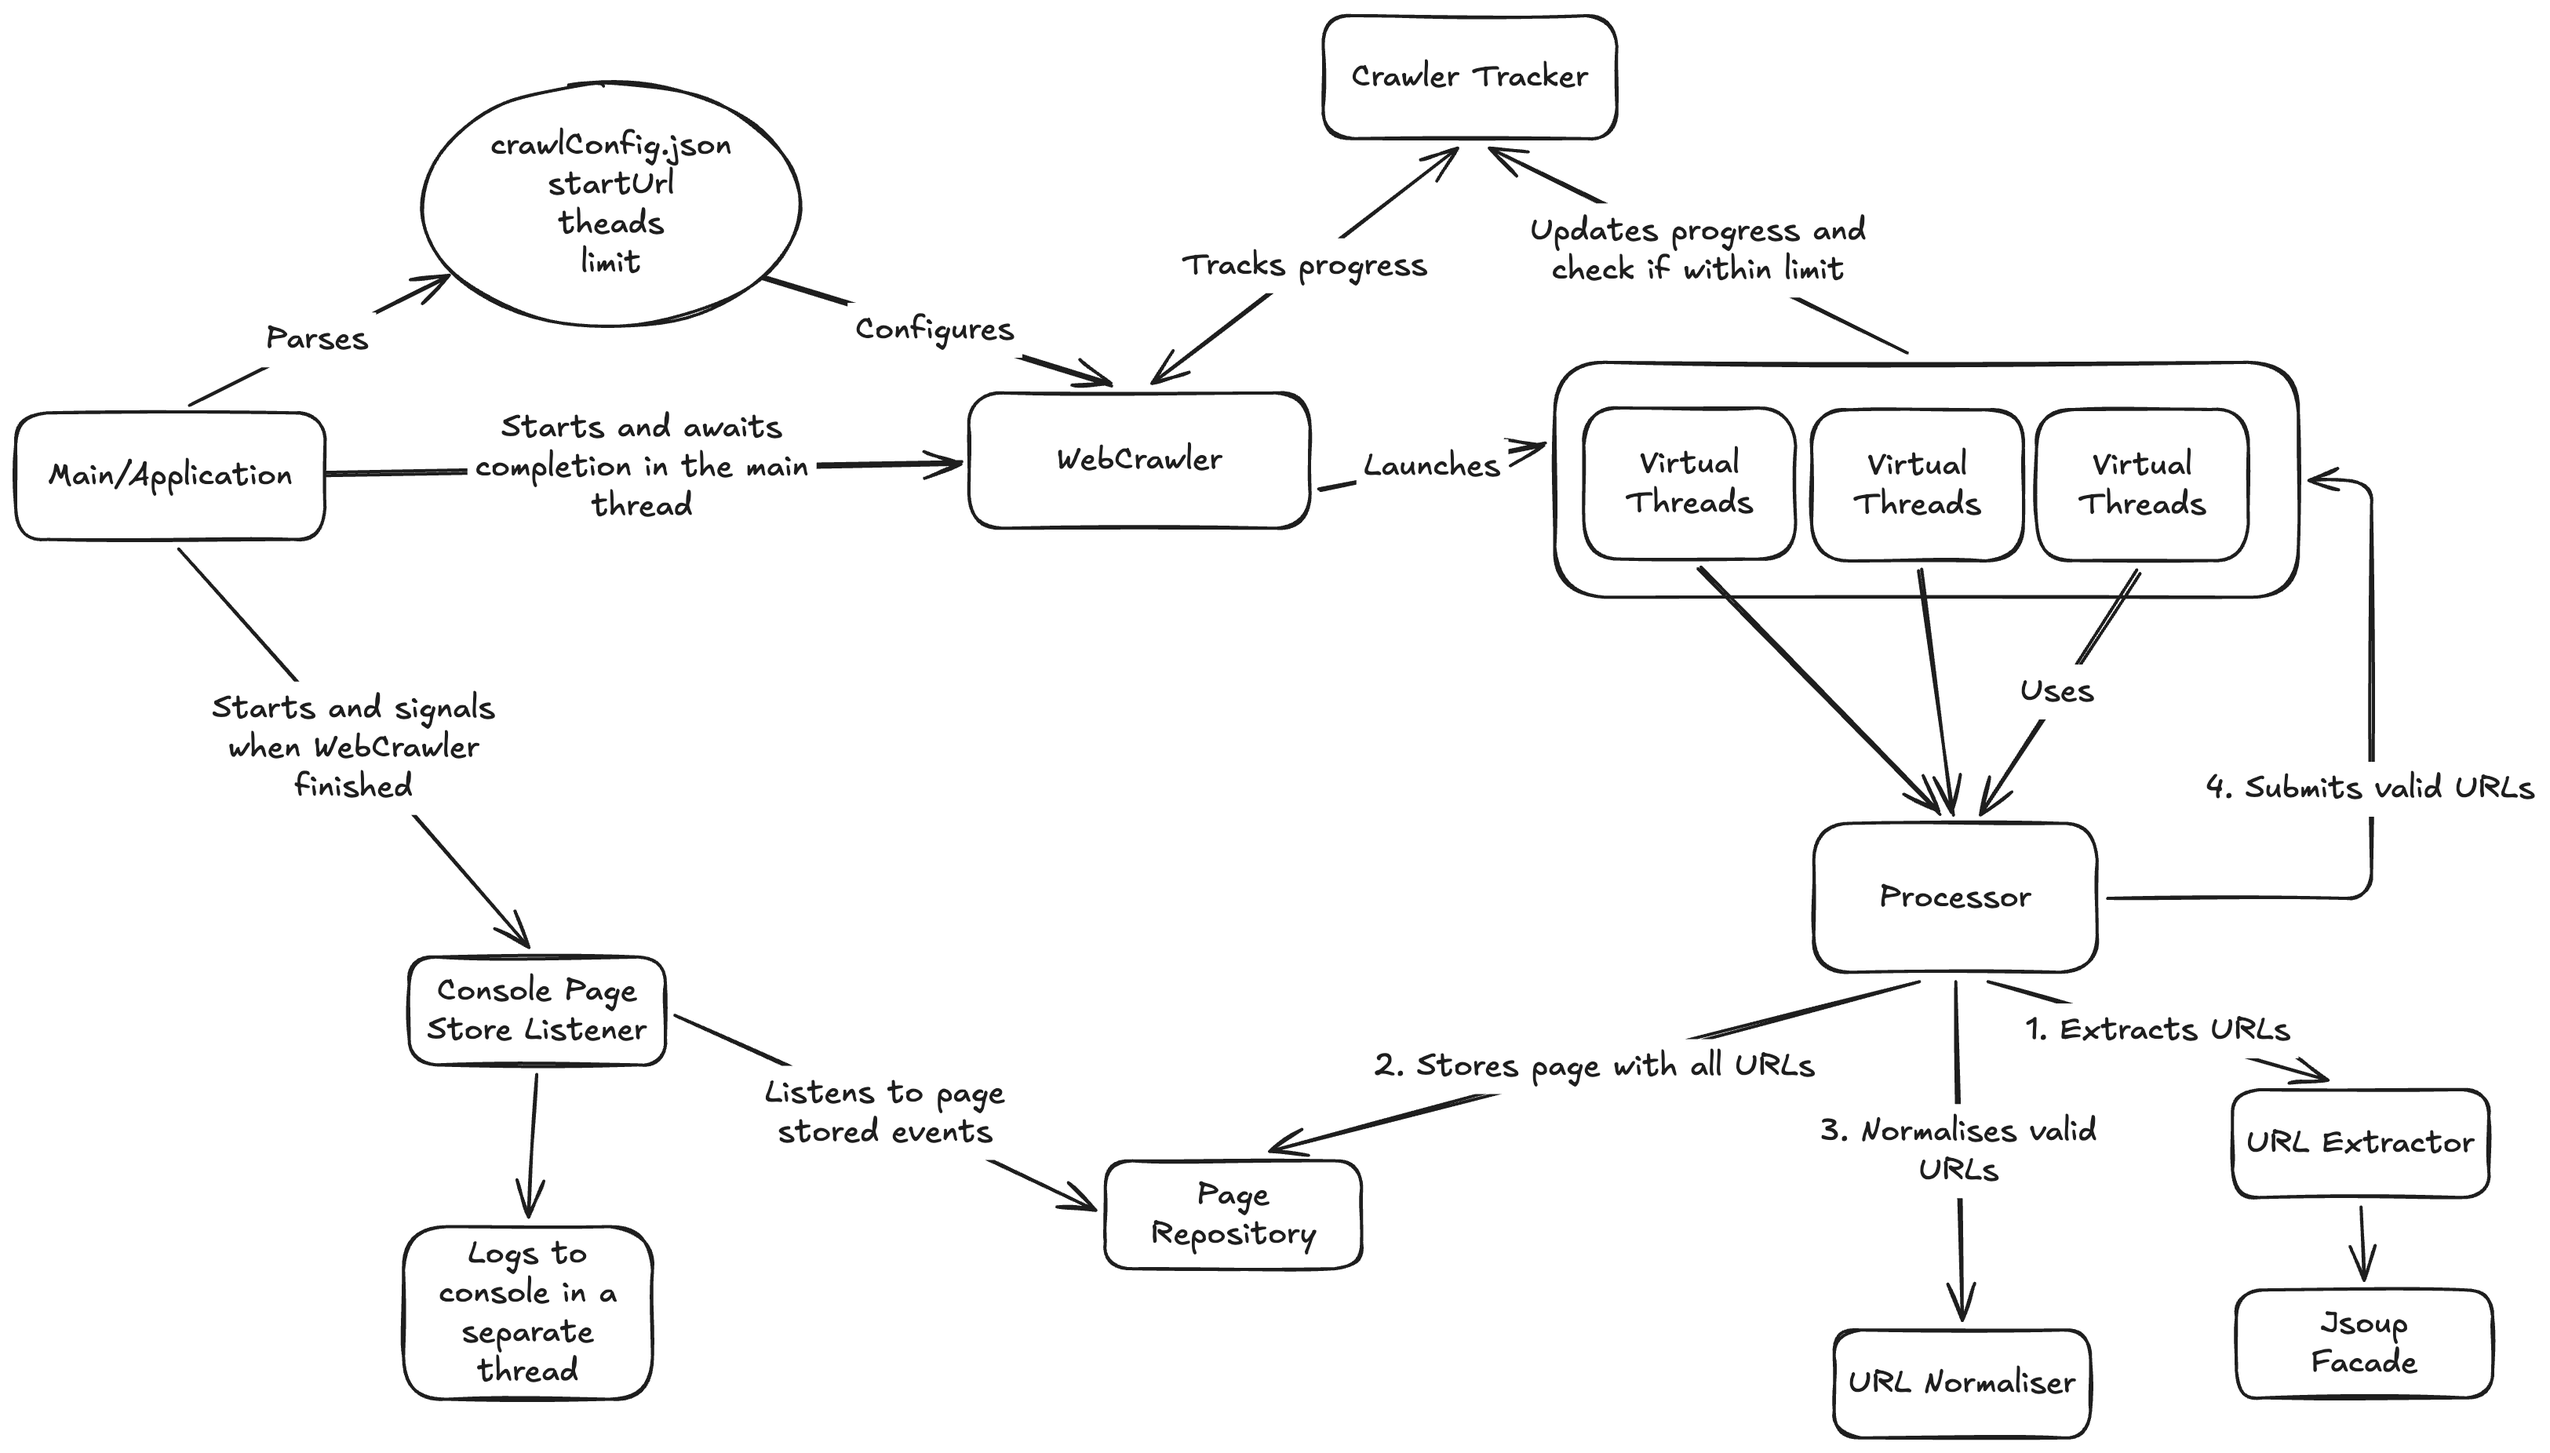
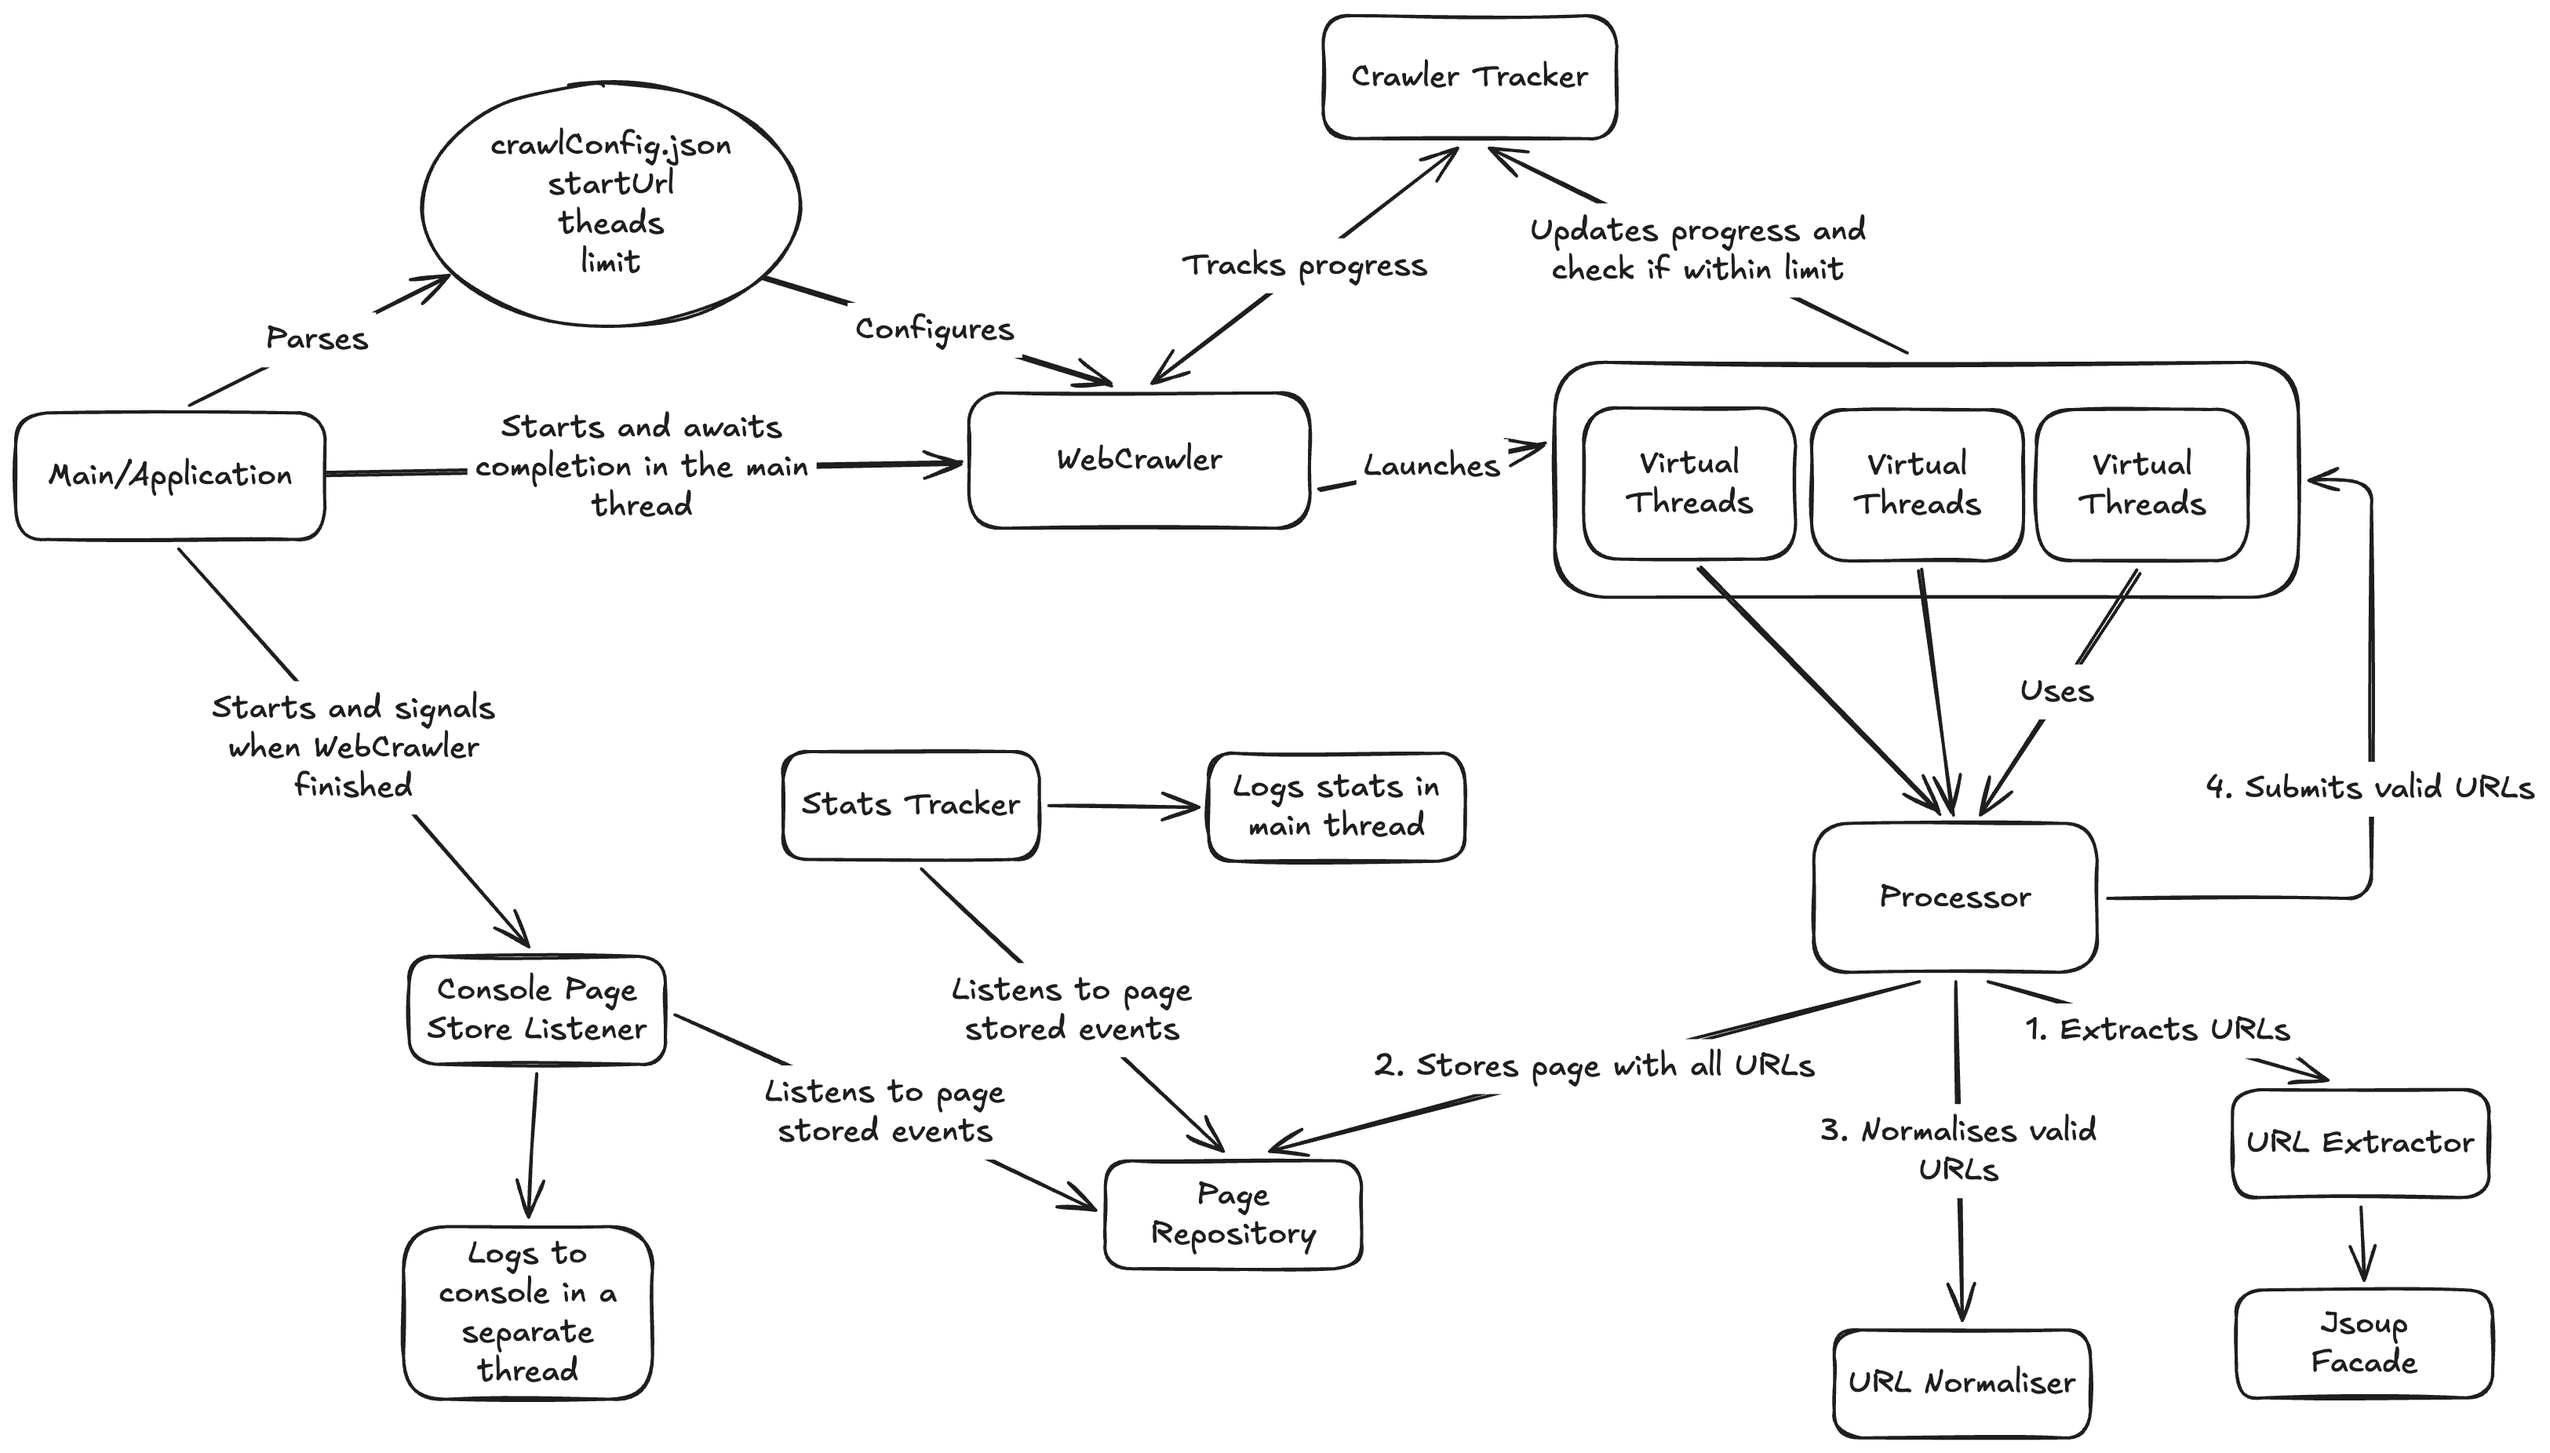
more clean up

diff --git a/src/test/java/com/monzo/webcrawler/infrastructure/listener/ConsoleOutputPageStoredListenerTest.java b/src/test/java/com/monzo/webcrawler/infrastructure/listener/ConsoleOutputPageStoredListenerTest.java
@@ -1,7 +1,7 @@
 package com.monzo.webcrawler.infrastructure.listener;
 
 import com.monzo.webcrawler.domain.model.Page;
-import com.monzo.webcrawler.domain.url.UrlNormalisationResult;
+import com.monzo.webcrawler.domain.url.UrlNormalisationResult.InvalidUrl;
 import com.monzo.webcrawler.util.InMemoryAppender;
 import org.apache.logging.log4j.Level;
 import org.apache.logging.log4j.LogManager;
@@ -14,7 +14,7 @@ import org.junit.jupiter.api.Test;
 import java.time.Duration;
 import java.util.List;
 
-import static com.monzo.webcrawler.domain.url.UrlNormalisationResult.*;
+import static com.monzo.webcrawler.domain.url.UrlNormalisationResult.NormalisedUrl;
 import static org.assertj.core.api.Assertions.assertThat;
 import static org.awaitility.Awaitility.await;
 
@@ -55,8 +55,10 @@ class ConsoleOutputPageStoredListenerTest {
                 .sameDomainUrls(List.of(
                         new NormalisedUrl("http://something.com/products", DOMAIN),
                         new NormalisedUrl("http://something.com/about", DOMAIN)))
-                .otherDomainUrls(List.of())
-                .invalidUrls(List.of())
+                .otherDomainUrls(List.of(
+                        new NormalisedUrl("http://other.com", "other.com")
+                ))
+                .invalidUrls(List.of(new InvalidUrl("foo:bar")))
                 .build();
         Page anotherPage = Page.builder()
                 .id("another-page-id")
@@ -72,11 +74,13 @@ class ConsoleOutputPageStoredListenerTest {
         underTest.completePublishing();
 
         // then
-        await().atMost(Duration.ofSeconds(5)).until(() -> inMemoryAppender.size() == 6);
+        await().atMost(Duration.ofSeconds(5)).until(() -> inMemoryAppender.size() == 8);
         assertThat(inMemoryAppender.eventMessages()).containsExactlyElementsOf(List.of(
-                "Discovered 2 URLs for: http://something.com",
+                "Discovered 4 URLs for: http://something.com",
                 "1. http://something.com/products",
                 "2. http://something.com/about",
+                "3. http://other.com",
+                "4. foo:bar",
                 "Discovered 1 URLs for: http://something.com/products",
                 "1. http://something.com/products/1",
                 "Poison pill, stopping console thead..."

diff --git a/src/test/java/com/monzo/webcrawler/infrastructure/repository/InMemoryPageRepositoryTest.java b/src/test/java/com/monzo/webcrawler/infrastructure/repository/InMemoryPageRepositoryTest.java
@@ -2,7 +2,6 @@ package com.monzo.webcrawler.infrastructure.repository;
 
 import com.monzo.webcrawler.domain.listener.PageStoredListener;
 import com.monzo.webcrawler.domain.model.Page;
-import com.monzo.webcrawler.domain.url.UrlNormalisationResult;
 import org.junit.jupiter.api.BeforeEach;
 import org.junit.jupiter.api.Test;
 import org.junit.jupiter.api.extension.ExtendWith;
@@ -12,7 +11,7 @@ import org.mockito.junit.jupiter.MockitoExtension;
 import java.util.List;
 import java.util.Optional;
 
-import static com.monzo.webcrawler.domain.url.UrlNormalisationResult.*;
+import static com.monzo.webcrawler.domain.url.UrlNormalisationResult.NormalisedUrl;
 import static org.assertj.core.api.Assertions.assertThat;
 import static org.mockito.Mockito.times;
 import static org.mockito.Mockito.verify;

diff --git a/src/test/java/com/monzo/webcrawler/application/CrawlTrackerTest.java b/src/test/java/com/monzo/webcrawler/application/CrawlTrackerTest.java
@@ -25,10 +25,12 @@ class CrawlTrackerTest {
 
     @Test
     void rejectsOverLimit() {
+        // given
         NormalisedUrl firstUrl = new NormalisedUrl("https://something.com/page/1", "something.com");
         NormalisedUrl secondUrl = new NormalisedUrl("https://something.com/page/2", "something.com");
         NormalisedUrl thirdUrl = new NormalisedUrl("https://something.com/page/3", "something.com");
 
+        // expect
         assertThat(underTest.submit(firstUrl)).isTrue();
         assertThat(underTest.submit(secondUrl)).isTrue();
         assertThat(underTest.submit(thirdUrl)).isFalse();

diff --git a/src/main/java/com/monzo/webcrawler/application/WebCrawlerApplication.java b/src/main/java/com/monzo/webcrawler/application/WebCrawlerApplication.java
@@ -7,6 +7,7 @@ import com.monzo.webcrawler.domain.url.UrlNormalisationResult;
 import com.monzo.webcrawler.domain.url.UrlNormaliser;
 import com.monzo.webcrawler.domain.url.UrlsExtractor;
 import com.monzo.webcrawler.infrastructure.listener.ConsoleOutputPageStoredListener;
+import com.monzo.webcrawler.infrastructure.listener.StatsTracker;
 import lombok.RequiredArgsConstructor;
 import org.apache.logging.log4j.LogManager;
 import org.apache.logging.log4j.Logger;

diff --git a/src/main/java/com/monzo/webcrawler/domain/url/UrlNormaliser.java b/src/main/java/com/monzo/webcrawler/domain/url/UrlNormaliser.java
@@ -6,10 +6,9 @@ import java.net.MalformedURLException;
 import java.net.URI;
 import java.net.URISyntaxException;
 import java.net.URL;
-import java.util.Locale;
 import java.util.Set;
 
-import static com.monzo.webcrawler.domain.url.UrlNormalisationResult.*;
+import static com.monzo.webcrawler.domain.url.UrlNormalisationResult.NormalisedUrl;
 
 public class UrlNormaliser {
 

diff --git a/src/test/java/com/monzo/webcrawler/application/DefaultUrlProcessorTest.java b/src/test/java/com/monzo/webcrawler/application/DefaultUrlProcessorTest.java
@@ -41,7 +41,7 @@ class DefaultUrlProcessorTest {
     }
 
     @Test
-    void shouldStoreAllUrlsAndReturnNormalisedOnly() {
+    void shouldStoreAllUrlsAndReturnSameDomainNormalisedOnly() {
         // given
         UrlNormalisationResult.NormalisedUrl startUrl = new NormalisedUrl("http://something.com", "something.com");
         List<String> extractedUrls = List.of(

diff --git a/src/main/java/com/monzo/webcrawler/domain/repository/PageRepository.java b/src/main/java/com/monzo/webcrawler/domain/repository/PageRepository.java
@@ -3,9 +3,6 @@ package com.monzo.webcrawler.domain.repository;
 import com.monzo.webcrawler.domain.listener.PageStoredListener;
 import com.monzo.webcrawler.domain.model.Page;
 
-import java.util.List;
-import java.util.Optional;
-
 public interface PageRepository {
 
     void store(Page page);

diff --git a/src/main/java/com/monzo/webcrawler/application/DefaultUrlProcessor.java b/src/main/java/com/monzo/webcrawler/application/DefaultUrlProcessor.java
@@ -12,7 +12,6 @@ import lombok.RequiredArgsConstructor;
 
 import java.util.ArrayList;
 import java.util.List;
-import java.util.stream.Collectors;
 
 import static com.monzo.webcrawler.domain.url.UrlNormalisationResult.NormalisedUrl;
 

diff --git a/src/main/java/com/monzo/webcrawler/infrastructure/listener/StatsTracker.java b/src/main/java/com/monzo/webcrawler/infrastructure/listener/StatsTracker.java
@@ -1,4 +1,4 @@
-package com.monzo.webcrawler.application;
+package com.monzo.webcrawler.infrastructure.listener;
 
 import com.monzo.webcrawler.domain.listener.PageStoredListener;
 import com.monzo.webcrawler.domain.model.Page;

diff --git a/src/main/java/com/monzo/webcrawler/infrastructure/jsoup/JsoupUrlsExtractor.java b/src/main/java/com/monzo/webcrawler/infrastructure/jsoup/JsoupUrlsExtractor.java
@@ -5,7 +5,6 @@ import lombok.RequiredArgsConstructor;
 import org.jsoup.nodes.Document;
 
 import java.util.List;
-import java.util.Set;
 import java.util.stream.Collectors;
 
 @RequiredArgsConstructor

diff --git a/README.md b/README.md
@@ -73,8 +73,8 @@ into PageEntity and PageStored models for simplicity. The production app should 
 2. The app does not have any retry mechanism, rate limiting and circuit breaker implementations, again for simplicity. 
 The production app should have those to ensure the crawled website is not overwhelmed and failed calls are retried.
 3. The app does not handle different error responses when fetching documents. The production app should handle 4xx, 5xx and other library-specific errors.
-3. In-memory repository was used for simplicity, a real persistence layer could be used to store the results durably.
-4. The app can benefit from better monitoring (metrics) to better track the progress and overall stats.
-5. Better multithreading control could be introduced, for example, via using Phaser.
-5. A UI could be added to make the user experience of starting, configuring and using the app better.
-6. The test coverage could be improved, for example, by adding architecture tests to make sure the structure of the app/layers will not be violated.
+4. In-memory repository was used for simplicity, a real persistence layer could be used to store the results durably.
+5. The app can benefit from better monitoring (metrics) to better track the progress and overall stats.
+6. Better multithreading control could be introduced, for example, via using Phaser.
+7. UI could be added to make the user experience of starting, configuring and using the app better.
+8. The test coverage could be improved, for example, by adding architecture tests to make sure the structure of the app/layers will not be violated.
